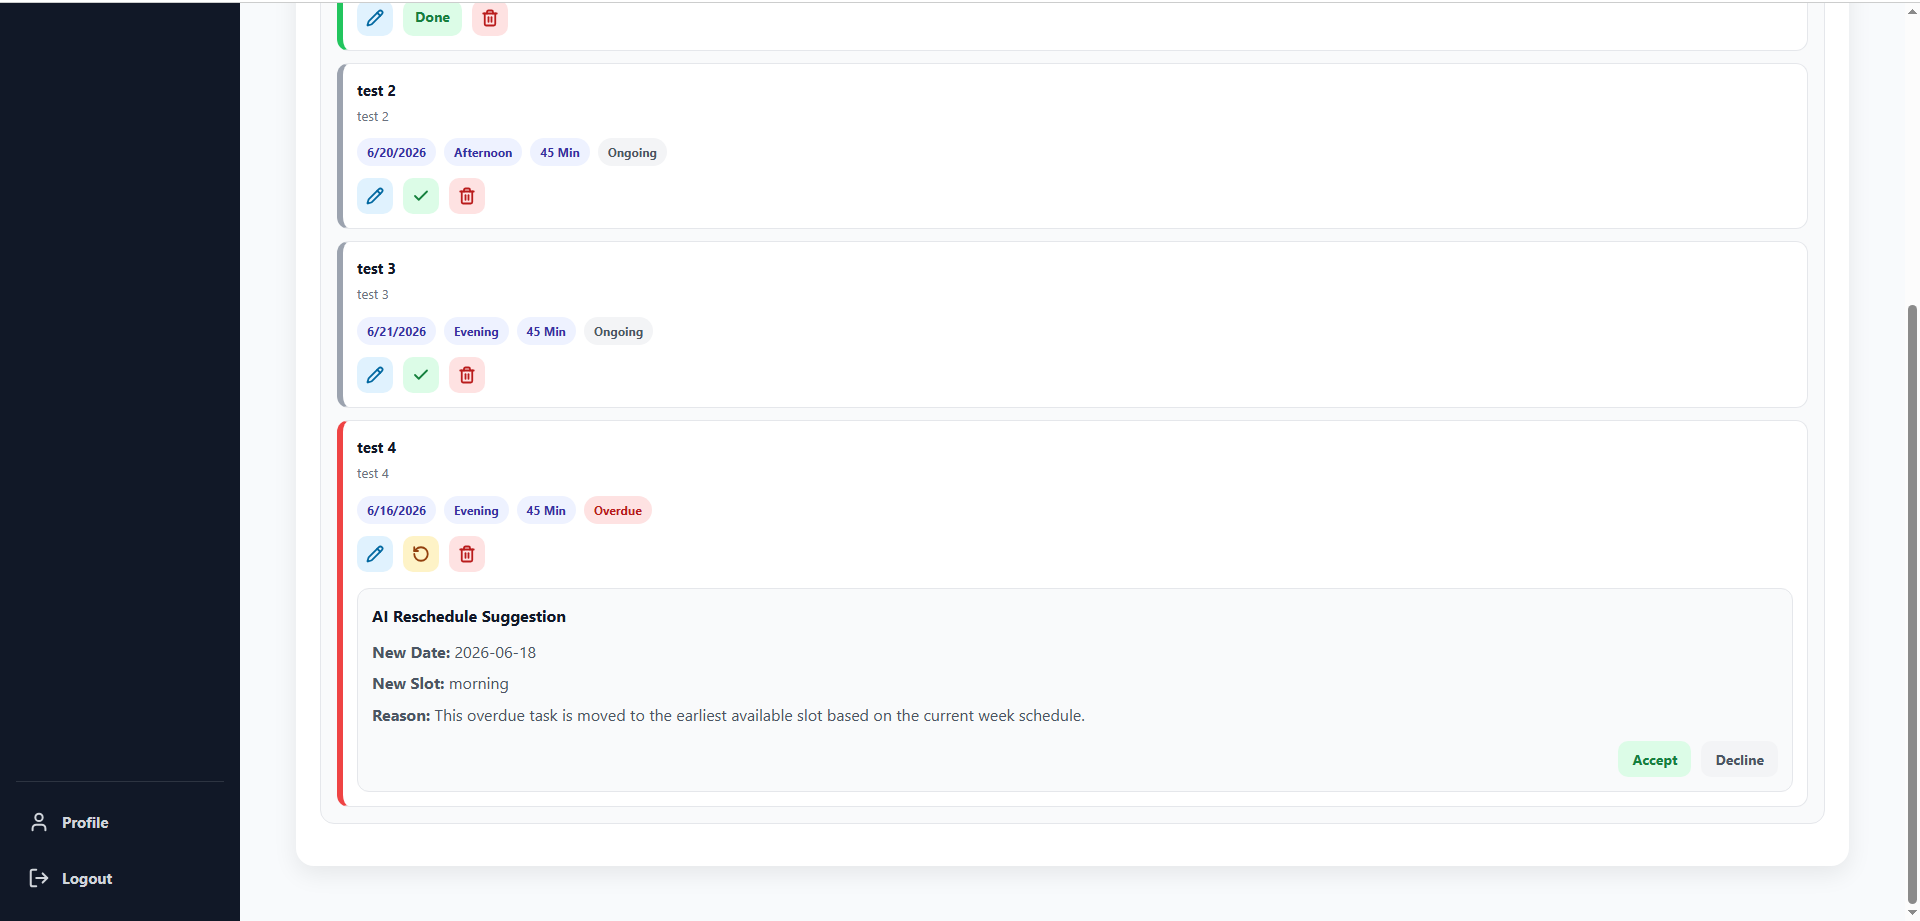
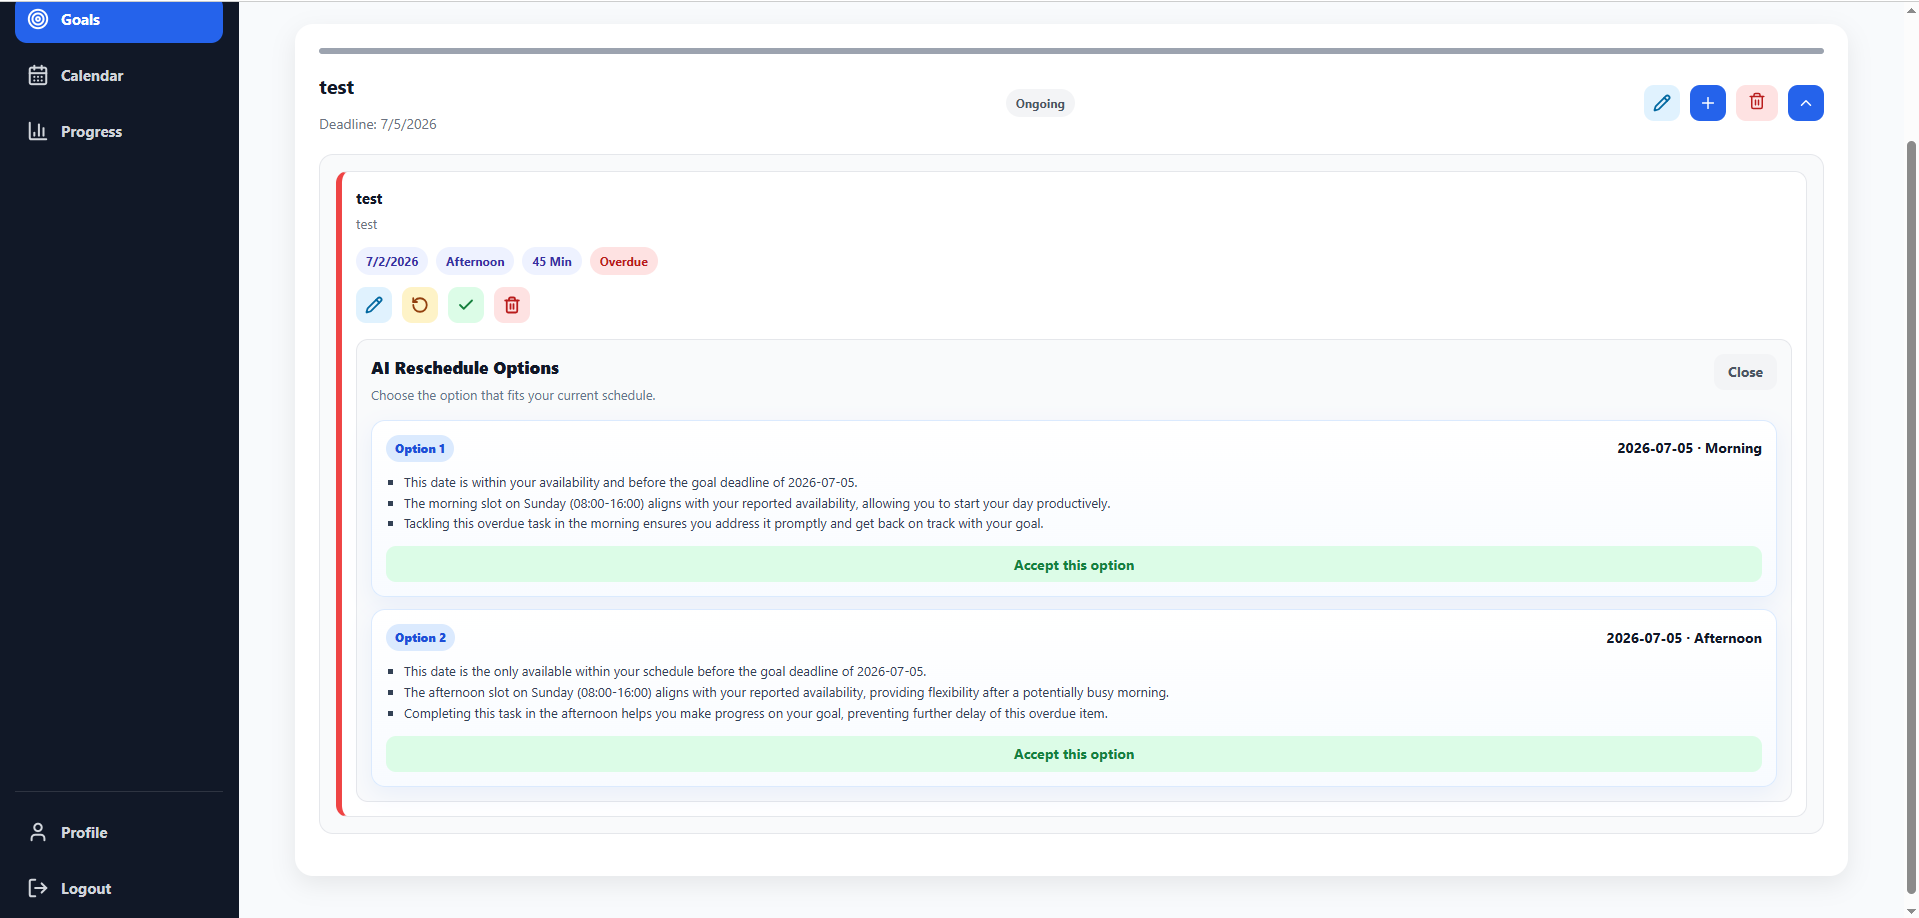
fix: calendar cache fix

diff --git a/client/src/components/WeeklyCalendar.jsx b/client/src/components/WeeklyCalendar.jsx
@@ -103,7 +103,7 @@ export default function WeeklyCalendar({ refreshKey, onTaskClick, onSlotClick })
       setLoading(true);
       setError(null);
 
-      const data = await getCached(`/tasks?week_start=${weekStart}`, 30000);
+      const data = await getCached(`/tasks?week_start=${weekStart}`, 5000);
       setTasksByDay(data.tasks || {});
     } catch (err) {
       console.error('Failed to fetch weekly tasks:', err);

diff --git a/README.md b/README.md
@@ -343,8 +343,6 @@ http://localhost:5173
 
 PlanIt menggunakan client-server architecture. React frontend berkomunikasi dengan Express backend melalui REST API. Backend bertanggung jawab untuk authentication, authorization, validation, database operations, progress calculation, AI integration, observability, dan export.
 
-![Architecture Diagram](docs/architecture.png)
-
 ```text
 User
  |
